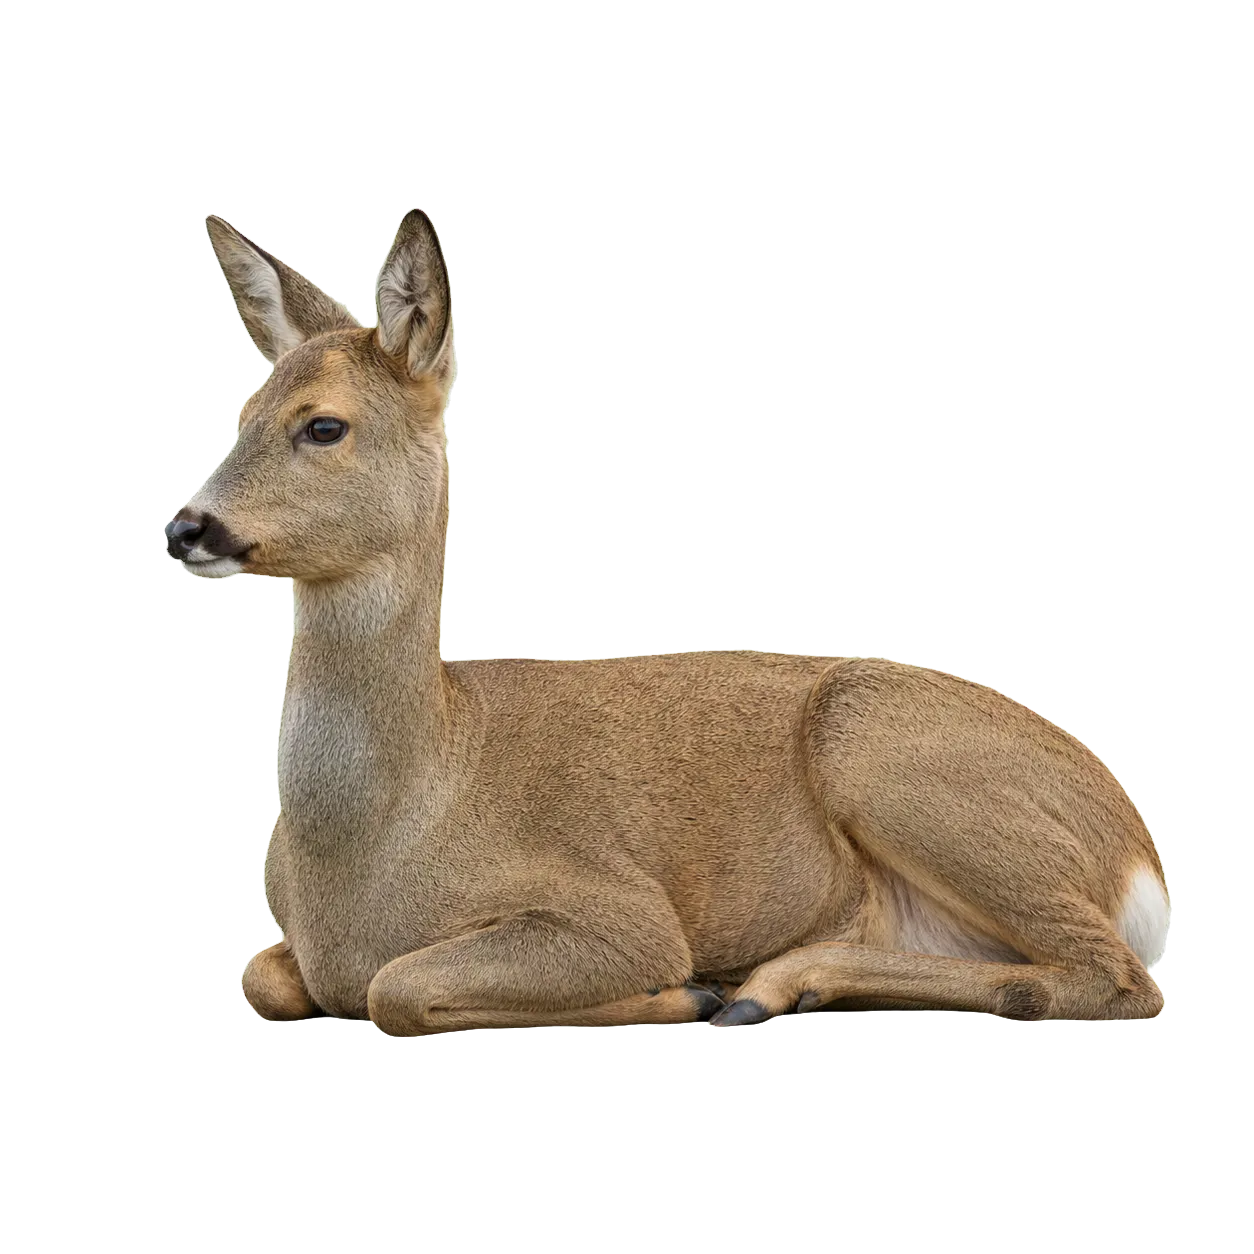
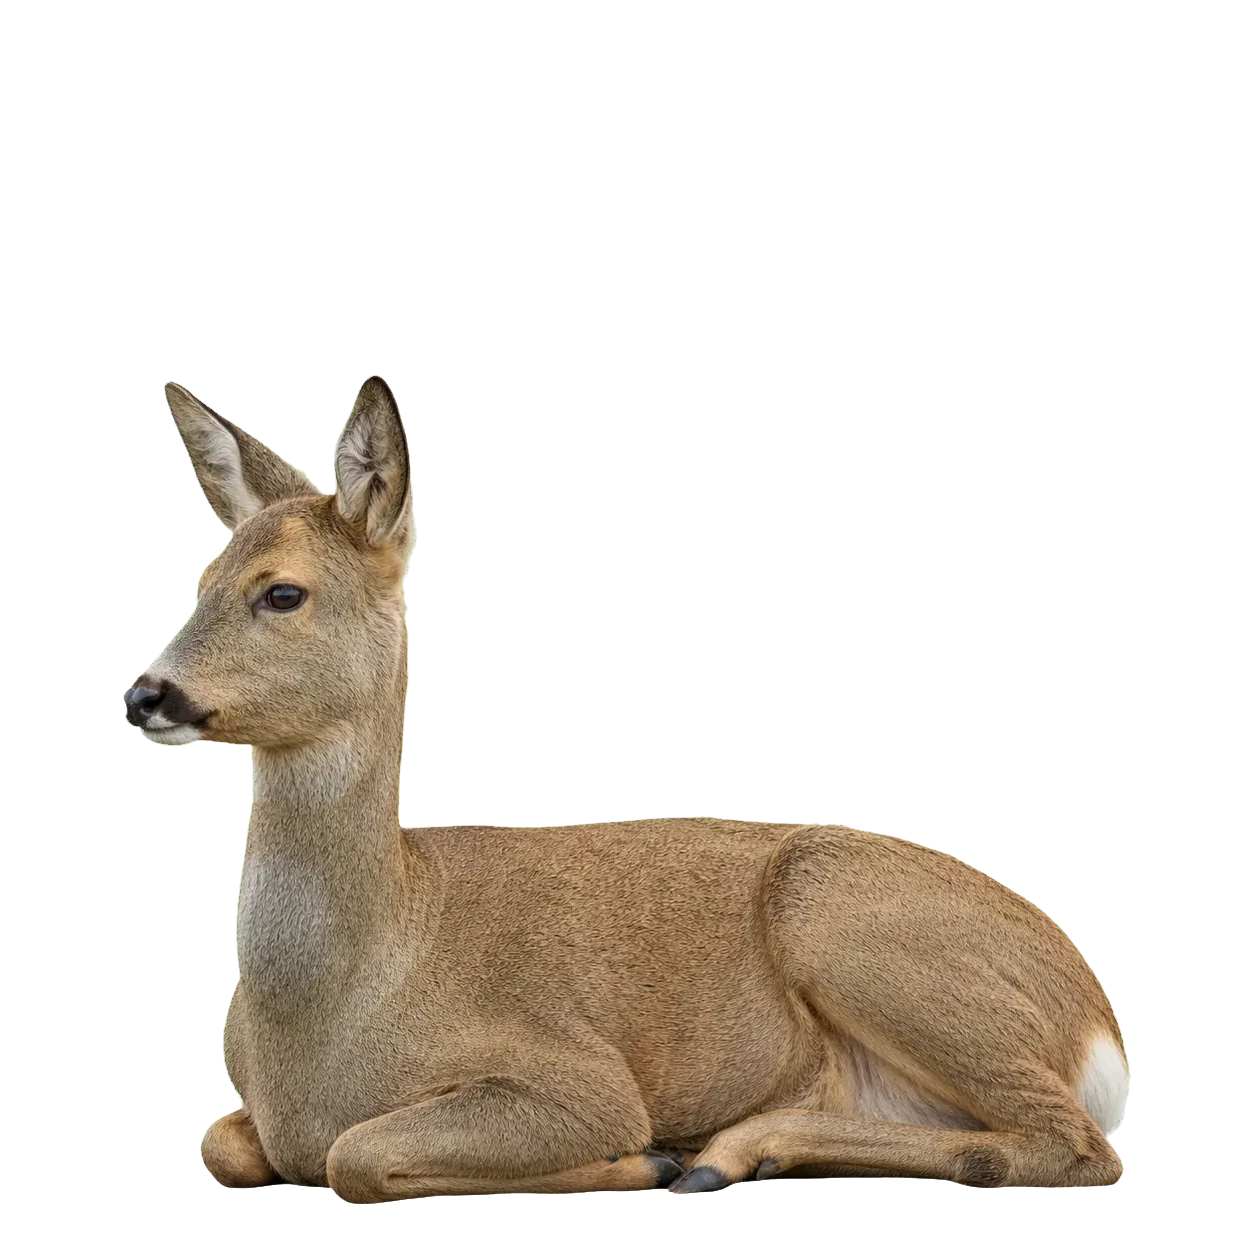
fix(world): kalibrera rådjuret mot räven och lägg till kvällsgradering
Rådjursbilderna fanns redan på plats, men den visuella kalibreringen mot
de riktiga filerna var aldrig gjord. Mätning i scenen visade fyra fel:

- deer-resting-near.webp hade markkontakten på 82,7 % av canvashöjden i
  stället för 96 %, så steg 4 svävade 10-24 px över strandlinjen. Exakt
  den varg-bugg som COMPANION_FRIEND_ASSETS.md varnar för. Filen är
  omexporterad med motivet på 96 % och horisontellt centrerat.
- På Framsteg blev rådjuret 2,5-3 ggr rävens höjd och upp till 6,6 ggr
  dess yta. Basbredden var satt mot scenens bredd, men räven renderas
  liten där och stor i Mitt Hems hero. Framstegs värden sänks till
  7/12/14 %; rådjuret är nu 0,4-0,97 ggr rävens höjd på alla bredder.
- Vännen låg på samma z-index som räven i Mitt Hems hero och hade ritats
  ovanpå den vid överlapp, eftersom DOM-ordningen avgör vid lika värde.
- Rådjuret saknade kvälls- och nattgradering och behöll dagsljuset medan
  scenen och räven mörknade. Speglar nu --companion-grade.

shore-far flyttas från x 62 till 53: på mobil doldes 65-66 % av
siluetten bakom räven i Mitt Hem.

Verifierat på 1280, 375 och 320 px i dag, skymning och natt: inga
console-fel, inga 404, ingen horisontell overflow, ingen överlappning
med text eller tidsbadge, rådjuret under rävens z-index och stilla vid
reduced motion.

diff --git a/src/lib/components/world/CompanionFriend.svelte b/src/lib/components/world/CompanionFriend.svelte
@@ -87,9 +87,15 @@
 		   i stället för att sväva när scenen ändrar storlek. */
 		transform: translate3d(-50%, -100%, 0);
 		transform-origin: 50% 100%;
-		/* Alltid under huvudföljeslagaren (--scene-companion). Vännen får aldrig
-		   konkurrera visuellt med djuret användaren valt. */
-		z-index: var(--scene-ambient, 2);
+		/* Alltid under huvudföljeslagaren. Vännen får aldrig konkurrera visuellt
+		   med djuret användaren valt.
+		   Ett steg under --scene-ambient, inte på samma nivå: i Mitt Hems hero
+		   får posen z-index calc(--companion-z + 1), och med räven på
+		   --companion-z: 1 hamnade den på 2 - exakt samma som vännen. Vid lika
+		   z-index avgör DOM-ordningen, och eftersom CompanionFriend renderas
+		   efter CompanionPose hade rådjuret ritats ovanpå räven vid överlapp.
+		   --scene-background är 0, så 1 ligger fortfarande över scenfotot. */
+		z-index: calc(var(--scene-ambient, 2) - 1);
 		pointer-events: none;
 		/* Osynlig tills bilden laddat - hindrar både trasig ikon och att en
 		   halvladdad bild blinkar till i scenen. */
@@ -121,24 +127,53 @@
 		   bilden förankras nedåt. */
 		object-position: center bottom;
 		/* Samma färggradering som följeslagaren, plus luftperspektiv-oskärpa
-		   för den bortre positionen. */
-		filter: saturate(0.78) contrast(0.9) brightness(0.96) sepia(0.08)
+		   för den bortre positionen. Grundvärdet är identiskt med
+		   CompanionPose --companion-grade för dag. */
+		filter: var(--friend-grade, saturate(0.78) contrast(0.9) brightness(0.96) sepia(0.08))
 			blur(var(--friend-blur, 0));
 	}
 
 	/* Steg 2: siluetten på andra sidan vattnet ska läsas som form, inte som ett
 	   detaljerat djur - mörkare, plattare och mjukare än närbilderna. */
 	.companion-friend[data-position='shore-far'] .companion-friend-image {
-		filter: saturate(0.42) contrast(0.82) brightness(0.72) sepia(0.12)
+		filter: var(--friend-grade-far, saturate(0.42) contrast(0.82) brightness(0.72) sepia(0.12))
 			blur(var(--friend-blur, 0.6px));
 	}
 
+	/* Skymning och natt.
+	   Bilderna är exporterade i neutralt dagsljus, så kvälls- och nattkänslan
+	   måste läggas på här. Utan detta behöll rådjuret dagsgraderingen medan
+	   scenen och räven mörknade, och djuret lyste ut ur bilden.
+	   Värdena speglar CompanionPose --companion-grade för respektive tid, med
+	   ett snäpp lägre ljushet så vännen förblir mindre framträdande än räven.
+	   Graderingen ärvs från scenens data-time; Mitt Hems hero sätter inget
+	   data-time och håller därför både räv och rådjur i dagsläge. */
+	:global(.companion-media[data-time='evening']) .companion-friend {
+		--friend-grade: saturate(0.68) contrast(0.88) brightness(0.86) sepia(0.18)
+			hue-rotate(-6deg);
+		--friend-grade-far: saturate(0.38) contrast(0.8) brightness(0.66) sepia(0.2)
+			hue-rotate(-6deg);
+	}
+
+	:global(.companion-media[data-time='night']) .companion-friend {
+		--friend-grade: saturate(0.55) contrast(0.84) brightness(0.7) sepia(0.14)
+			hue-rotate(5deg);
+		--friend-grade-far: saturate(0.32) contrast(0.78) brightness(0.55) sepia(0.14)
+			hue-rotate(5deg);
+	}
+
+	/* Basbredden är kalibrerad per scen mot hur stor följeslagaren faktiskt
+	   renderas där, inte mot scenens bredd. Räven är stor i Mitt Hems hero men
+	   liten och tillbakadragen i Framstegs banner, så samma procenttal ger helt
+	   olika maktförhållande mellan djuren. Framsteg behöver därför ett mycket
+	   lägre tal för att räven ska förbli den primära följeslagaren: med 22 %
+	   blev rådjuret 2,5-3 ggr rävens höjd och upp till 6,6 ggr dess yta. */
 	.companion-friend:global(.hero-companion-friend) {
 		--friend-base-width: 30%;
 	}
 
 	.companion-friend:global(.progress-companion-friend) {
-		--friend-base-width: 22%;
+		--friend-base-width: 7%;
 	}
 
 	@media (max-width: 620px) {
@@ -147,7 +182,7 @@
 		}
 
 		.companion-friend:global(.progress-companion-friend) {
-			--friend-base-width: 30%;
+			--friend-base-width: 12%;
 		}
 	}
 
@@ -160,7 +195,7 @@
 		}
 
 		.companion-friend:global(.progress-companion-friend) {
-			--friend-base-width: 34%;
+			--friend-base-width: 14%;
 		}
 	}
 

diff --git a/src/lib/companionRelationship.ts b/src/lib/companionRelationship.ts
@@ -39,11 +39,15 @@ export type FriendPairing = {
 // följeslagaren står, och de två skulle överlappa. Steg 4 får i stället en egen
 // främre position på samma strandlinje men tydligt åtskild i sidled.
 //
-// Exakta värden behöver finjusteras visuellt när de riktiga bilderna finns -
-// ett rådjurs tyngdpunkt och silhuett går inte att kalibrera mot en tom ruta.
+// Värdena är kalibrerade mot de riktiga bilderna, inte mot en tom ruta.
 const FRIEND_SCENE_POSITIONS: Record<FriendScenePositionId, FriendScenePosition> = {
 	// Bortre stranden, tvärs över vattnet.
-	'shore-far': { id: 'shore-far', x: 62, y: 62, scale: 0.26, opacity: 0.5, blur: 0.6 },
+	//
+	// x låg tidigare på 62. På Mitt Hem sitter räven mitt i scenen på mobil, och
+	// då hamnade 62 % rakt bakom den: 65-66 % av siluetten doldes vid 320 och
+	// 375 px. 53 % lägger den i luckan mellan rubriktexten till vänster och
+	// rävens faktiska kontur till höger på samtliga testbredder.
+	'shore-far': { id: 'shore-far', x: 53, y: 62, scale: 0.26, opacity: 0.5, blur: 0.6 },
 	// Vattenbrynet på samma sida, en bit ner längs stranden.
 	'shore-near': { id: 'shore-near', x: 52, y: 74, scale: 0.5, opacity: 0.88, blur: 0 },
 	// Främre strandlinjen, samma djupled som följeslagaren men långt åt vänster.
@@ -80,9 +84,8 @@ const DEER_STAGE_ASSETS: Partial<Record<CompanionRelationshipStage, FriendStageA
 export const FOX_DEER_RELATIONSHIP: FriendPairing = {
 	companionId: 'fox',
 	friendId: 'deer',
-	// Inga rådjursbilder är tillagda ännu. Komponenten är därför säkert dold
-	// för steg 2-4 tills licensierade, frilagda tillgångar finns på plats.
-	// Se docs/COMPANION_FRIEND_ASSETS.md för exakt filspecifikation.
+	// Bilderna finns på plats och är visuellt verifierade på 1280, 375 och 320 px
+	// i dag, skymning och natt. Se docs/COMPANION_FRIEND_ASSETS.md.
 	assetsAvailable: true,
 	stageAssets: DEER_STAGE_ASSETS
 };

diff --git a/docs/COMPANION_FRIEND_ASSETS.md b/docs/COMPANION_FRIEND_ASSETS.md
@@ -1,27 +1,27 @@
-# Räv och rådjur: tillgångar som saknas
+# Räv och rådjur: vänlagrets tillgångar
 
-Relationssystemet är aktivt, men rådjurens visuella lager är feature-flaggat tills
-licensierade och frilagda bildtillgångar finns. Inga platshållarbilder eller
-trasiga bildlänkar visas i produktion.
-
-`CompanionFriend.svelte` är färdigbyggd och väntar på filerna. Den renderar
-ingenting alls så länge någon av dessa gäller: flaggan är `false`, steget är
-under 2, följeslagaren saknar vänpar, eller bilden inte går att ladda.
+Relationssystemet och rådjurets visuella lager är aktiva. `CompanionFriend.svelte`
+renderar ingenting alls så länge någon av dessa gäller: flaggan är `false`, steget
+är under 2, följeslagaren saknar vänpar, eller bilden inte går att ladda.
 
 ## Flaggan
 
 `assetsAvailable` i `FOX_DEER_RELATIONSHIP` (`src/lib/companionRelationship.ts`).
-Står på `false`. Sätts till `true` först efter godkänd visuell verifiering.
+Står på `true` sedan bilderna lagts in och verifierats visuellt.
 
-## Filer som behövs
+## Filerna
 
-Katalog: `static/images/world/friends/` (skapas när filerna läggs till).
+Katalog: `static/images/world/friends/`.
 
-| Filnamn | Steg | Position | Pose och riktning | Mått |
-| --- | --- | --- | --- | --- |
-| `deer-silhouette-far.webp` | 2 | `shore-far` | Stående i profil, vänd åt vänster mot sjön. Lågkontrast, läsbar som form snarare än som detaljerat djur. | 400×400 |
-| `deer-standing-near.webp` | 3 | `shore-near` | Stående vid vattenbrynet, huvudet något lyft och vaksamt, vänd åt vänster. Full detalj. | 800×800 |
-| `deer-resting-near.webp` | 4 | `shore-foreground` | Liggande eller betande, lugn och stilla, vänd åt vänster. Full detalj. | 800×800 |
+| Filnamn | Steg | Position | Pose och riktning | Canvas | Storlek |
+| --- | --- | --- | --- | --- | --- |
+| `deer-silhouette-far.webp` | 2 | `shore-far` | Stående i profil, vänd åt vänster mot sjön. Lågkontrast, läses som form snarare än som detaljerat djur. | 1024×1024 | 72 kB |
+| `deer-standing-near.webp` | 3 | `shore-near` | Stående vid vattenbrynet, huvudet något lyft och vaksamt, vänd åt vänster. | 1254×1254 | 107 kB |
+| `deer-resting-near.webp` | 4 | `shore-foreground` | Liggande, lugn, huvudet försiktigt lyft, vänd åt vänster. | 1254×1254 | 141 kB |
+
+Okomprimerade källfiler ligger i `assets/world/friends/` (utanför `static/`). De är
+gröna studiobilder, inte alfamasters - den frilagda alfakanalen finns bara i
+WebP-filerna, så utgå från dem vid framtida redigering.
 
 Steg 4 använder `shore-foreground` och inte följeslagarens `foreground-right`:
 den senare är exakt där räven står, så de två skulle överlappa. Positionerna
@@ -37,26 +37,39 @@ kommit längst, vilket vore precis den nedgradering systemet aldrig får göra.
 
 ## Krav som gäller alla filer
 
-- Format: WebP med äkta alfakanal. PNG går om pipelinen kräver det, men håll då
-  filen under ~150 kB - de befintliga PNG-utklippen väger 750 kB till 2,4 MB och
-  det ska inte upprepas.
+- Format: WebP med äkta alfakanal, kvalitet 86-90. Håll filen under ~150 kB - de
+  äldre PNG-utklippen väger 750 kB till 2,4 MB och det ska inte upprepas.
 - Kvadratisk canvas, djuret horisontellt centrerat.
-- **Hovarna ska ligga på 96 % av canvashöjden.** Vargbilden har transparent luft
-  under tassarna, vilket tvingade fram en placeringshack som fortfarande står
-  dokumenterad i `companionPoseManifest.ts`. Upprepa inte det.
-- Djuret fyller cirka 85 % av canvashöjden.
-- Mjuk mattad kant. Ingen vit halo och inga hårda utklippskanter - det syns
-  direkt mot fotot.
-- Neutralt dagsljus, ingen inbränd färgton. Kväll och natt löses med CSS-filter
-  precis som för följeslagaren, så inga separata dagpartsvarianter behövs.
-- Dokumenterad produktionslicens.
+- **Markkontakten ska ligga på 96 % av canvashöjden.** Vargbilden har transparent
+  luft under tassarna, vilket tvingade fram en placeringshack som fortfarande står
+  dokumenterad i `companionPoseManifest.ts`. Upprepa inte det. Den första
+  versionen av `deer-resting-near.webp` hade markkontakten på 82,7 % och svävade
+  10-24 px över strandlinjen innan den exporterades om.
+- Djuret fyller cirka 85 % av canvashöjden (liggande poser blir naturligt lägre).
+- Mjuk mattad kant. Ingen vit halo och inga hårda utklippskanter.
+- Neutralt dagsljus, ingen inbränd färgton. Kväll och natt löses med CSS-filter i
+  `CompanionFriend.svelte`, så inga separata dagpartsvarianter behövs.
 
-## Efter att filerna lagts till
+## Skalning och gradering
+
+`--friend-base-width` sätts per scen i `CompanionFriend.svelte` och är kalibrerad
+mot hur stor **följeslagaren faktiskt renderas** i den scenen, inte mot scenens
+bredd. Räven är stor i Mitt Hems hero men liten och tillbakadragen i Framstegs
+banner, så samma procenttal ger helt olika maktförhållande mellan djuren. Med
+Framstegs ursprungliga 22 % blev rådjuret 2,5-3 ggr rävens höjd och upp till
+6,6 ggr dess yta. Kontrollera detta förhållande om en ny scen läggs till.
+
+Skymnings- och nattgraderingen ärvs från scenens `data-time` och speglar
+`--companion-grade` i `CompanionPose.svelte`, med ett snäpp lägre ljushet så
+vännen förblir mindre framträdande. Mitt Hems hero sätter inget `data-time` och
+håller därför både räv och rådjur i dagsläge.
+
+## Vid byte eller tillägg av tillgångar
 
 1. Kontrollera att sökvägarna matchar `stageAssets` i `companionRelationship.ts`.
-2. Finjustera `FRIEND_SCENE_POSITIONS` visuellt. Nuvarande koordinater är satta
-   utan bild och behöver kalibreras mot rådjurets faktiska tyngdpunkt.
-3. Verifiera steg 2, 3 och 4 på desktop och mobil 375 px.
-4. Verifiera reduced motion, att ingen overflow uppstår och att följeslagaren
-   fortfarande är visuellt primär.
-5. Sätt `assetsAvailable: true` först därefter.
+2. Mät markkontakt, horisontell centrering och alfakanal innan integration.
+3. Verifiera steg 2, 3 och 4 på 1280, 375 och 320 px, i dag, skymning och natt.
+4. Kontrollera att rådjuret är lägre än räven i både höjd och yta, att det ligger
+   under rävens z-index och att det inte skyms av räven.
+5. Verifiera reduced motion, att ingen overflow uppstår och att inget överlappar
+   text eller tidsbadge.
